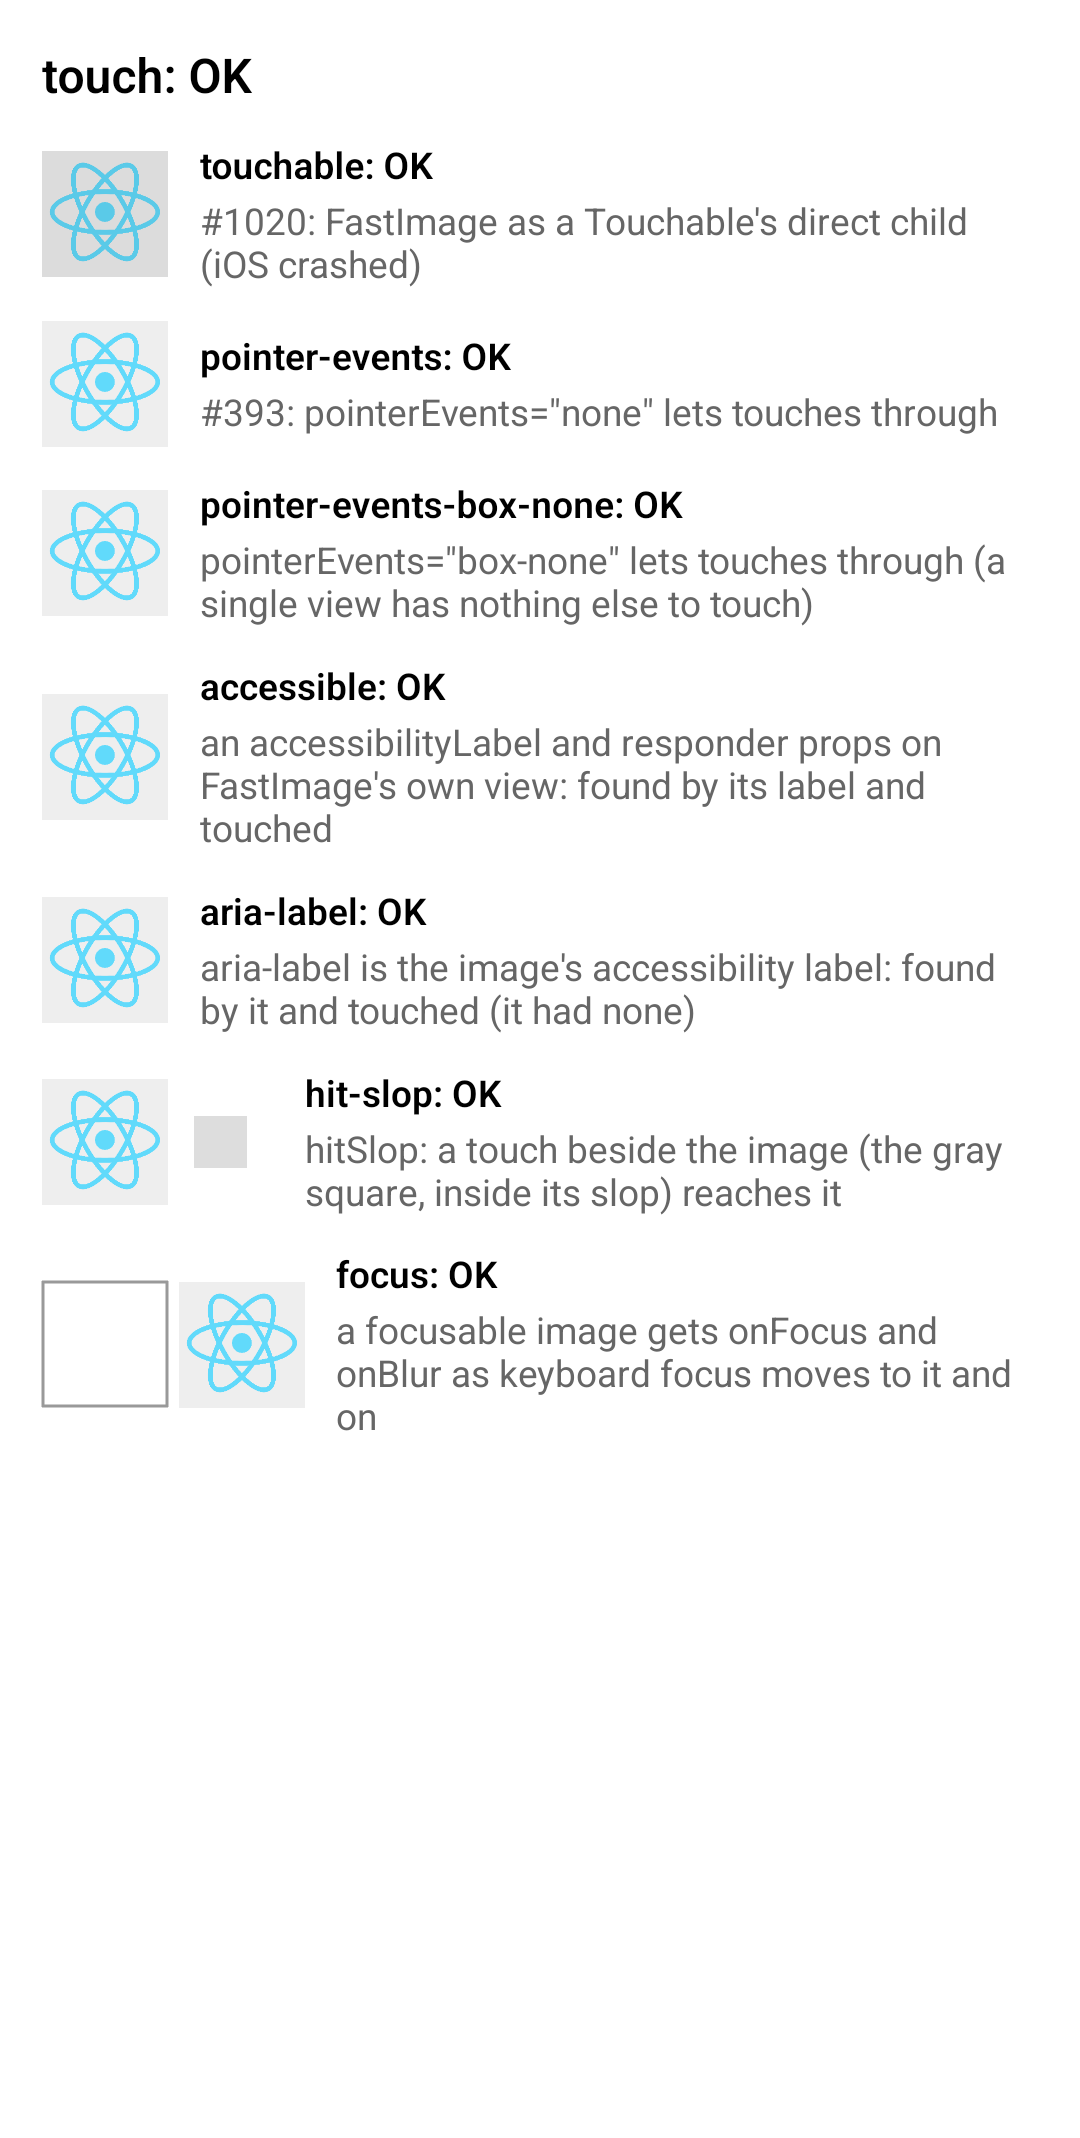
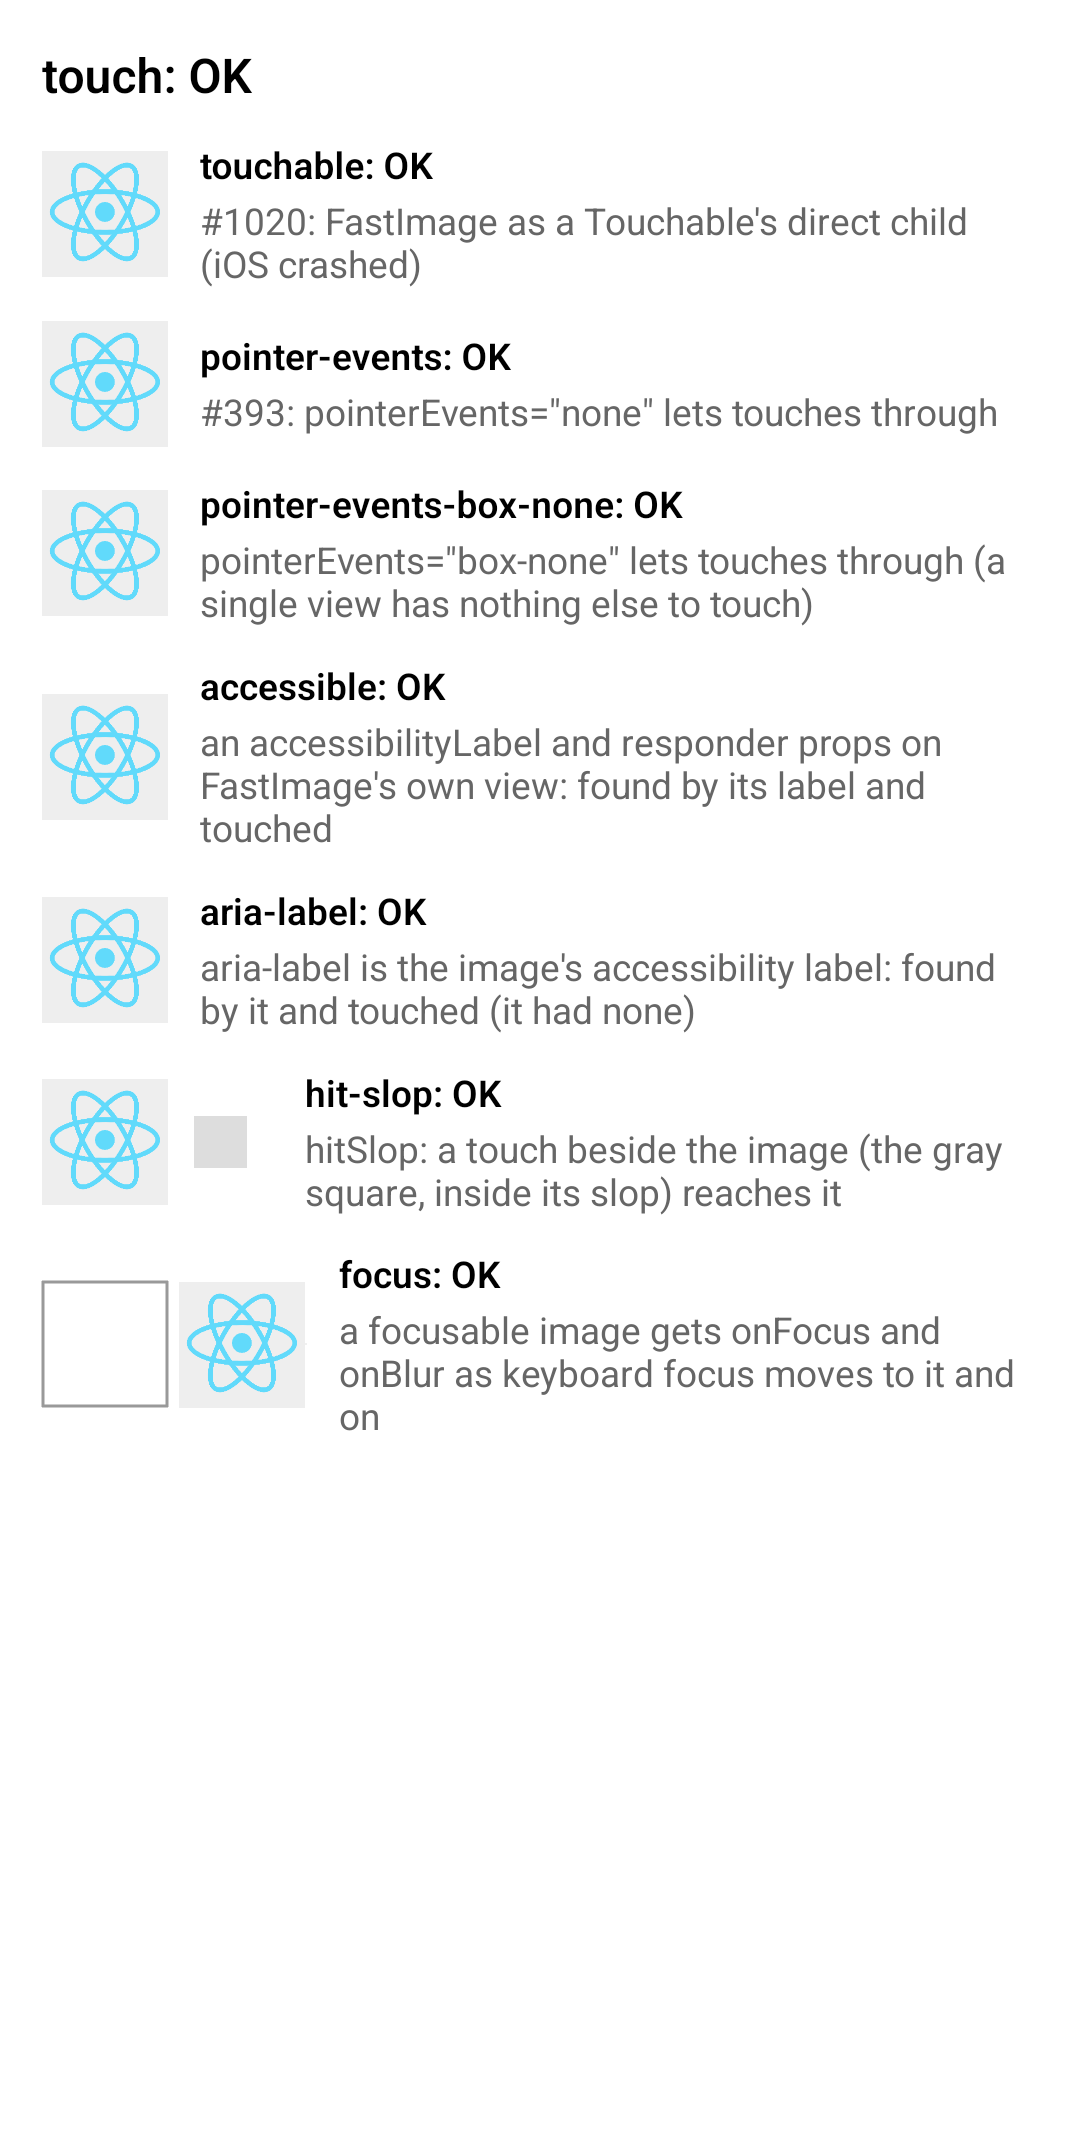
fix: make alt's image accessible only when the label that wins is one
An empty aria-label or accessibilityLabel beside alt keeps the image
decorative, the web picks the label as native does, and the focus case
moves focus to a view after the image instead of wherever Tab wraps to.

Changed region(s): [[0.3056, 0.5865, 0.9472, 0.6791]]

diff --git a/src/ariaProps.ts b/src/ariaProps.ts
@@ -1,5 +1,5 @@
-// The ARIA props (and id, tabIndex) as the accessibility props the native view
-// takes, and `focusable` as React Native tvOS's isTVSelectable. React
+// The ARIA props (and id, tabIndex, alt) as the accessibility props the native
+// view takes, and `focusable` as React Native tvOS's isTVSelectable. React
 // Native's View and Image map them in JS, as here: their native views don't
 // read the aria-* props.
 import { Platform } from 'react-native'
@@ -48,7 +48,8 @@ export function resolveAriaProps<P extends AriaProps>(
 ): NativeProps<P> {
     // Most images have none of them (nor `focusable` on iOS): their props go
     // on as they are, without a copy. Their own keys are checked (a few), not
-    // ARIA_KEYS (15 lookups of keys they don't have, several times slower).
+    // ARIA_KEYS (a lookup for each of its keys, which they don't have, several
+    // times slower).
     const ios = Platform.OS === 'ios'
     let hasAria = ios && props.focusable != null
     if (!hasAria) {
@@ -123,17 +124,18 @@ export function resolveAriaProps<P extends AriaProps>(
     // out. Without focusable, an isTVSelectable given goes on as it is.
     if (ios && native.focusable != null)
         native.isTVSelectable = native.focusable
-    // On iOS, an image with aria-label or alt is an accessibility element
-    // unless `accessible` says otherwise or accessibilityElementsHidden hides
-    // it, as an <img aria-label> or <img alt> on the web and React Native's
-    // Image with `alt`: iOS reads `accessible` for it. Android's TalkBack
-    // reads the label either way, and `accessible` would make the image a
-    // stop of its own, splitting a Pressable's announcement in two. An empty
-    // label is none, as on the web (a decorative image), and so is a blank
-    // one.
+    // On iOS, an image labelled by aria-label or alt is an accessibility
+    // element unless `accessible` says otherwise or accessibilityElementsHidden
+    // hides it, as an <img aria-label> or <img alt> on the web and React
+    // Native's Image with `alt`: iOS reads `accessible` for it. Android's
+    // TalkBack reads the label either way, and `accessible` would make the
+    // image a stop of its own, splitting a Pressable's announcement in two.
+    // The label that won counts, so an empty one (a decorative image, as on
+    // the web) or a blank one is none, even with alt beside it.
     if (
         ios &&
-        (isLabel(ariaLabel) || isLabel(alt)) &&
+        (ariaLabel !== undefined || alt !== undefined) &&
+        isLabel(native.accessibilityLabel) &&
         native.accessible === undefined &&
         !native.accessibilityElementsHidden
     ) {

diff --git a/ReactNativeFastImageExample/src/RegressionExample.tsx b/ReactNativeFastImageExample/src/RegressionExample.tsx
@@ -430,7 +430,9 @@ function HitSlopCase() {
 // onFocus and onBlur on a focusable FastImage, from keyboard focus (Android:
 // React Native's base view manager sends them for any view). maestro/touch.yaml
 // taps the text field before the image and presses Tab twice, which moves
-// focus to the image and on; passes when it got onFocus, then onBlur. Not on
+// focus to the image and on to the 1-point view after it (so it lands there,
+// not wherever the search wraps to, and the screenshot doesn't show it);
+// passes when it got onFocus, then onBlur. Not on
 // iOS, where React Native sends them only for focus moved from code, behind a
 // feature flag.
 function FocusCase() {
@@ -450,6 +452,7 @@ function FocusCase() {
                 style={styles.image}
                 source={{ uri: LOGO }}
             />
+            <View focusable style={touchStyles.focusNext} />
             <CaseStatus
                 id="focus"
                 status={
@@ -481,6 +484,7 @@ const touchStyles = StyleSheet.create({
         borderWidth: 1,
         borderColor: '#999',
     },
+    focusNext: { width: 1, height: 1 },
 })
 
 // A wide image in square boxes: the left one is contain; the right one loads

diff --git a/src/index.test.tsx b/src/index.test.tsx
@@ -1974,6 +1974,31 @@ describe('ARIA props', () => {
             viewProps(<FastImage source={source} alt="A cat" aria-hidden />)
                 .accessible,
         ).toBe(false)
+        // A label that wins over it, even an empty one, decides.
+        for (const props of [
+            { 'aria-label': '' },
+            { 'aria-label': null },
+            { accessibilityLabel: '' },
+        ]) {
+            expect(
+                viewProps(
+                    <FastImage
+                        source={source}
+                        alt="A cat"
+                        {...(props as {})}
+                    />,
+                ).accessible,
+            ).toBeUndefined()
+        }
+        expect(
+            viewProps(
+                <FastImage
+                    source={source}
+                    alt="A cat"
+                    accessibilityLabel="A dog"
+                />,
+            ).accessible,
+        ).toBe(true)
         // An empty or blank one is a decorative image: no label.
         for (const alt of ['', ' ']) {
             const native = viewProps(<FastImage source={source} alt={alt} />)

diff --git a/src/index.web.tsx b/src/index.web.tsx
@@ -121,7 +121,17 @@ function FastImageBase({
         resizeMode: _resizeMode,
         ...viewProps
     } = props as typeof props & { 'aria-label'?: string; resizeMode?: unknown }
-    const label = ariaLabel || accessibilityLabel || alt || undefined
+    // A value given wins, an empty one too (a decorative image), as on iOS
+    // and Android; a blank alt is none.
+    const given =
+        ariaLabel !== undefined
+            ? ariaLabel
+            : accessibilityLabel != null
+              ? accessibilityLabel
+              : isLabel(alt)
+                ? alt
+                : undefined
+    const label = given || undefined
     const several =
         Array.isArray(source) && source.length > 1 ? source : undefined
     const sized = several ? sizedSources(several) : undefined
@@ -781,3 +791,8 @@ export const FastImageBackground: React.ForwardRefExoticComponent<
 FastImageBackground.displayName = 'FastImageBackground'
 
 export default FastImage
+
+// A label to read: a string that isn't empty or blank.
+function isLabel(value: unknown): value is string {
+    return typeof value === 'string' && value.trim() !== ''
+}

diff --git a/src/index.web.test.tsx b/src/index.web.test.tsx
@@ -279,6 +279,15 @@ describe('FastImage (web)', () => {
             <FastImage source={A} alt="A cat" accessibilityLabel="A dog" />,
         )
         expect(images(labelled)[0].props.alt).toBe('A dog')
+        // An empty label given wins, as on native, and a blank alt is none.
+        expect(
+            images(
+                render(<FastImage source={A} alt="A cat" aria-label="" />),
+            )[0].props.alt,
+        ).toBe('')
+        expect(
+            images(render(<FastImage source={A} alt=" " />))[0].props.alt,
+        ).toBe('')
         // An empty one is a decorative image.
         expect(
             images(render(<FastImage source={A} alt="" />))[0].props.alt,

diff --git a/docs/issues/expo-image-issues.md b/docs/issues/expo-image-issues.md
@@ -149,6 +149,13 @@ Fast Image's maintainers found these while comparing Fast Image with Expo Image.
 - **How to reproduce:** Found by reading the code (Expo's `main` at `cae0f09b4`, 2026-10-23). Render `<ImageBackground focusable source={...}><Text>Title</Text></ImageBackground>` on Android TV and move focus with the D-pad.
 - **How Fast Image handles it:** `FastImageBackground` gives View props, accessibility and focus among them, to its view and its own props to the image, with `imageProps` for any prop on the image instead ([#1364](https://github.com/DylanVann/react-native-fast-image/pull/1364)).
 
+## iOS: an image with only alt isn't read by VoiceOver
+
+- **What happens:** `<Image alt="A cat" source={...} />` gets the label, but VoiceOver skips the image on iOS, as it's not an accessibility element: `alt` is only another name for `accessibilityLabel`, and on iOS a view's label is read only when it's `accessible`. On the web the same props are an `<img alt>` that screen readers read.
+- **Where:** `packages/expo-image/src/ExpoImage.tsx`, `render()` passes `accessibilityLabel={accessibilityLabel ?? alt}` and leaves `accessible` as it's given.
+- **How to reproduce:** Found by reading the code (Expo's `main` at `cae0f09b4`, 2026-10-23). Show `<Image alt="A cat" source={...} />` and move through the screen with VoiceOver.
+- **How Fast Image handles it:** on iOS an image labelled by `alt` (or `aria-label`) is an accessibility element unless `accessible` or `aria-hidden` says otherwise ([#1365](https://github.com/DylanVann/react-native-fast-image/pull/1365)).
+
 ## configureCache is iOS only, and throws on Android
 
 - **What happens:** `Image.configureCache()` exists only on iOS: on Android the native module has no such function, so calling it throws a `TypeError` (`ImageModule.configureCache is not a function`). On iOS the limits aren't saved (the app has to call it on every launch, after images may already have loaded), there's no age limit, and a lower `maxDiskSize` is only applied at SDWebImage's next cleanup (when the app goes to the background or terminates).

diff --git a/docs/issues/react-native-image-issues.md b/docs/issues/react-native-image-issues.md
@@ -137,6 +137,13 @@ Fast Image's maintainers found these while comparing Fast Image with React Nativ
 - **How to reproduce:** Found by reading the code (React Native's `main` at `e9443bae7`, 2026-10-23). Render `<ImageBackground accessible accessibilityLabel="Card" source={...}><Text>Title</Text></ImageBackground>` and move through it with VoiceOver or TalkBack.
 - **How Fast Image handles it:** `FastImageBackground` gives View props, accessibility and focus among them, to its view and its own props to the image, with `imageProps` for any prop on the image instead ([#1364](https://github.com/DylanVann/react-native-fast-image/pull/1364)).
 
+## alt makes an image accessible over accessible={false}
+
+- **What happens:** `<Image alt="A cat" accessible={false} />` is still an accessibility element on iOS and Android: `alt` sets `accessible` to true whatever was given. On iOS only `aria-hidden` stops it; on Android nothing does (on Android `accessible` also makes the image a keyboard and D-pad stop). An empty `alt=""`, a decorative image on the web, also makes the image accessible, with an empty label.
+- **Where:** `packages/react-native/Libraries/Image/Image.ios.js` (`else if (alt != null) { nativeProps.accessible = true; }`) and `Image.android.js` (`if (alt != null) { nativeProps.accessible = true; }`).
+- **How to reproduce:** Found by reading the code (React Native's `main` at `e9443bae7`, 2026-10-23). Render `<Image alt="A cat" accessible={false} source={...} />` and move through the screen with VoiceOver.
+- **How Fast Image handles it:** `alt` makes the image accessible only when `accessible` isn't given (and on iOS, where VoiceOver needs it), and an empty `alt` is no label ([#1365](https://github.com/DylanVann/react-native-fast-image/pull/1365)).
+
 ## Other issues
 
 These were found while comparing implementations, but Fast Image has no counterpart for them, so there's no fix to point to.
